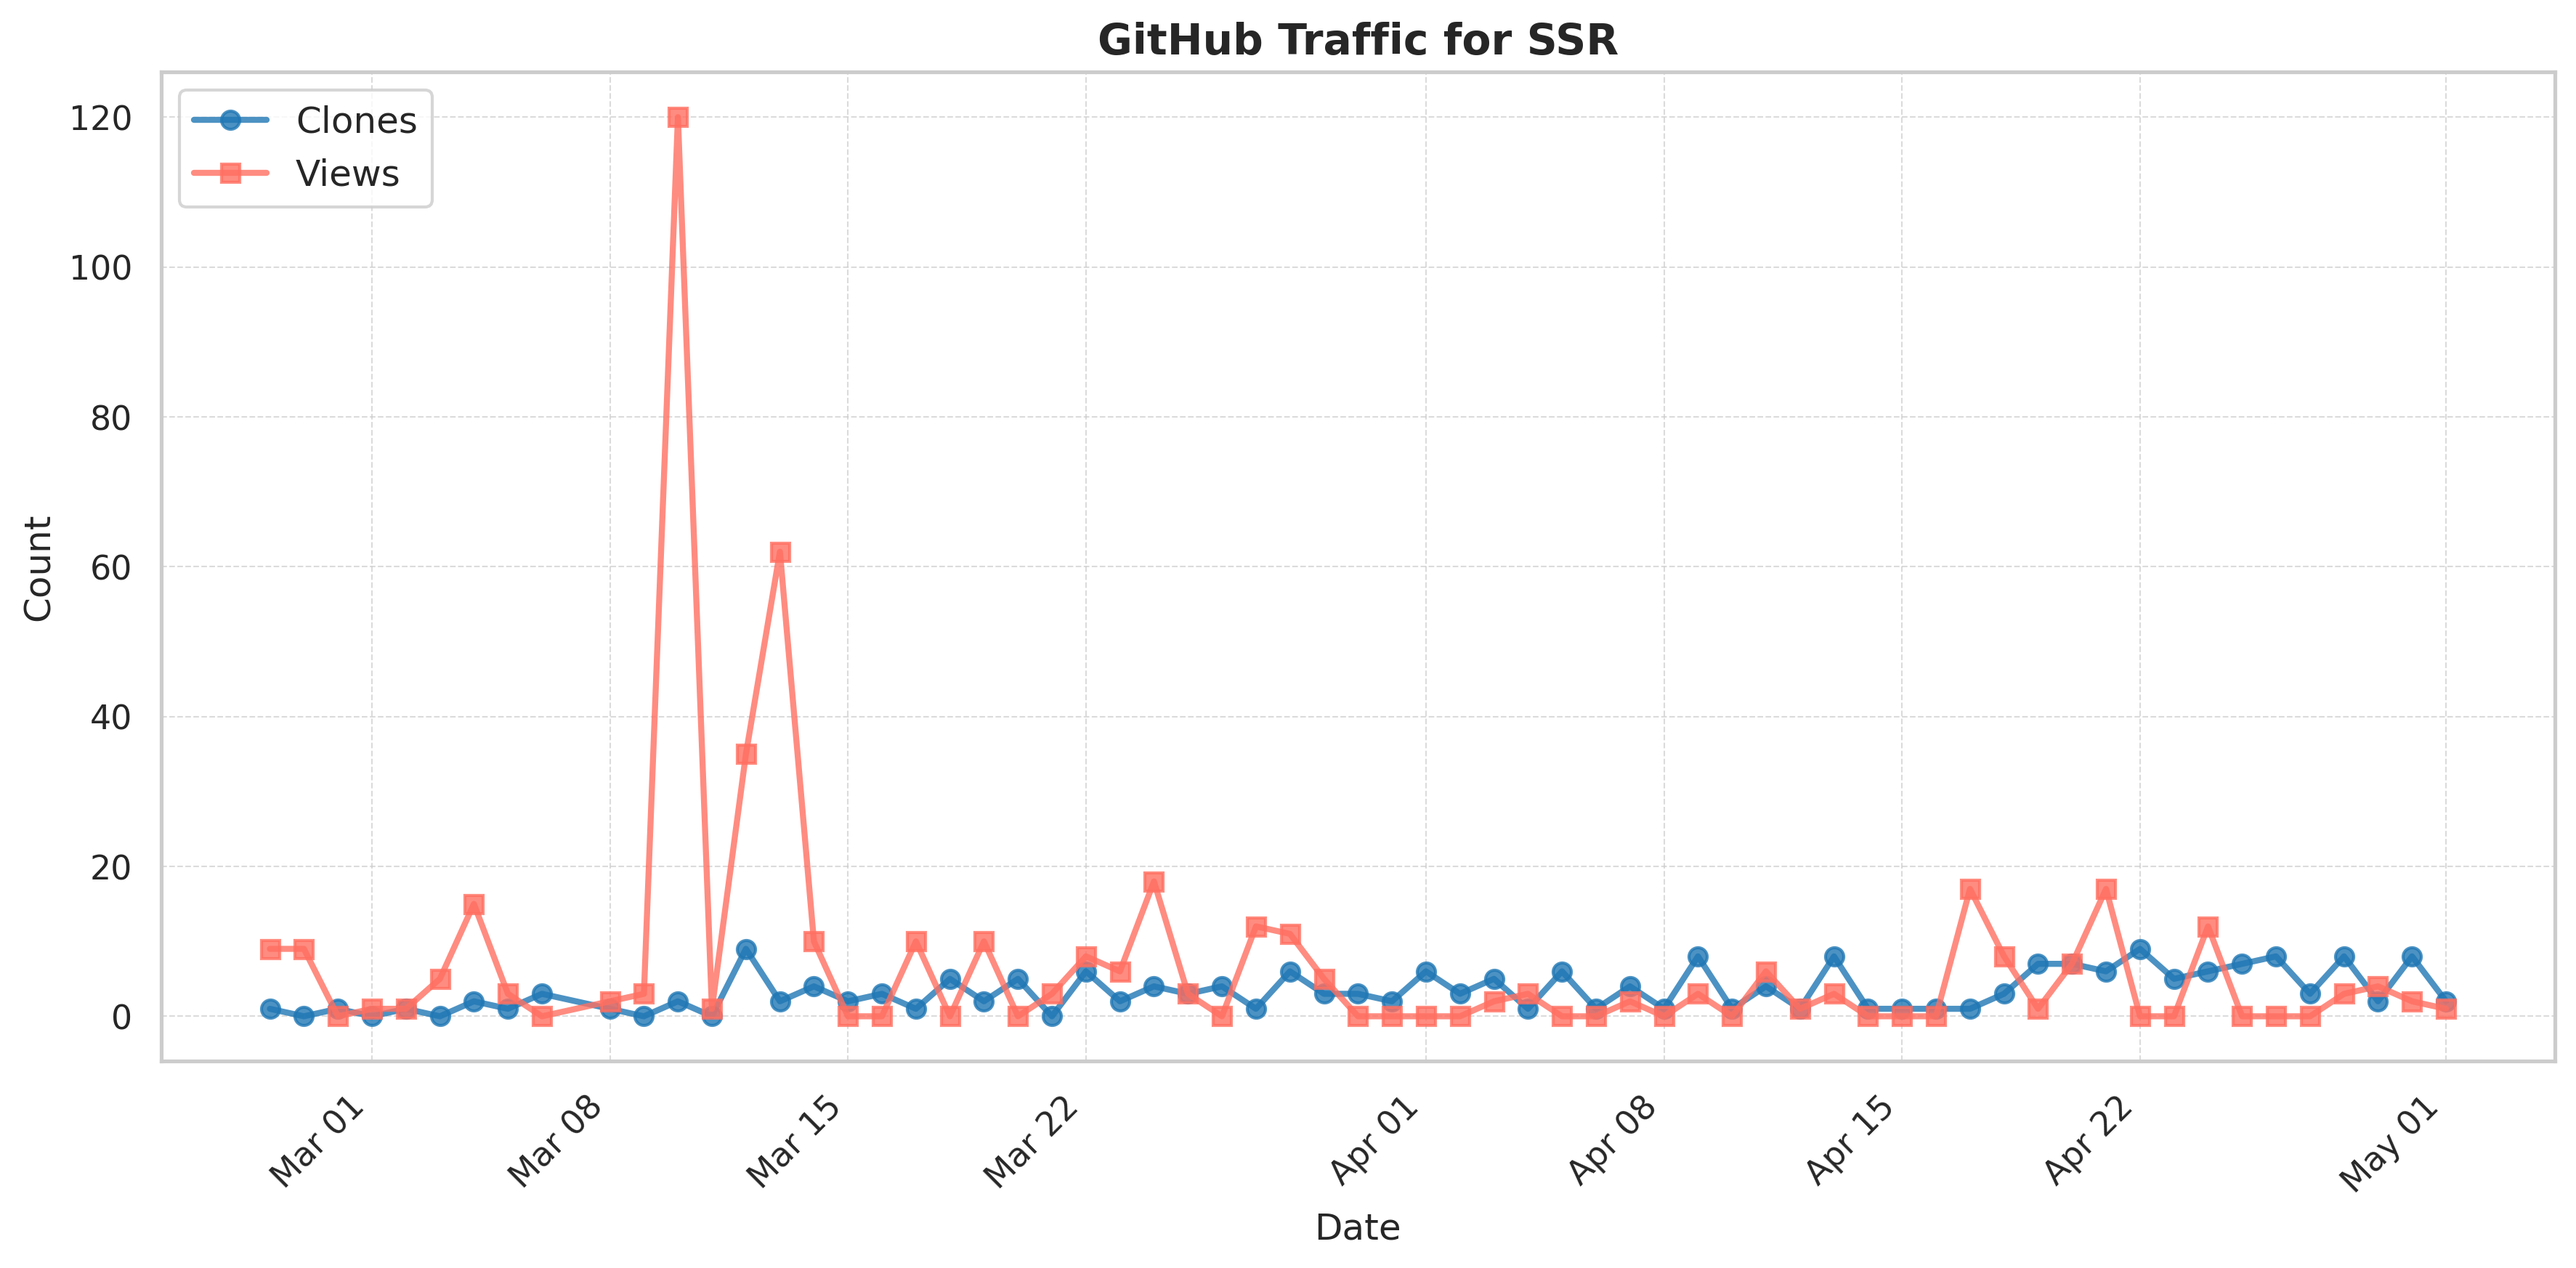
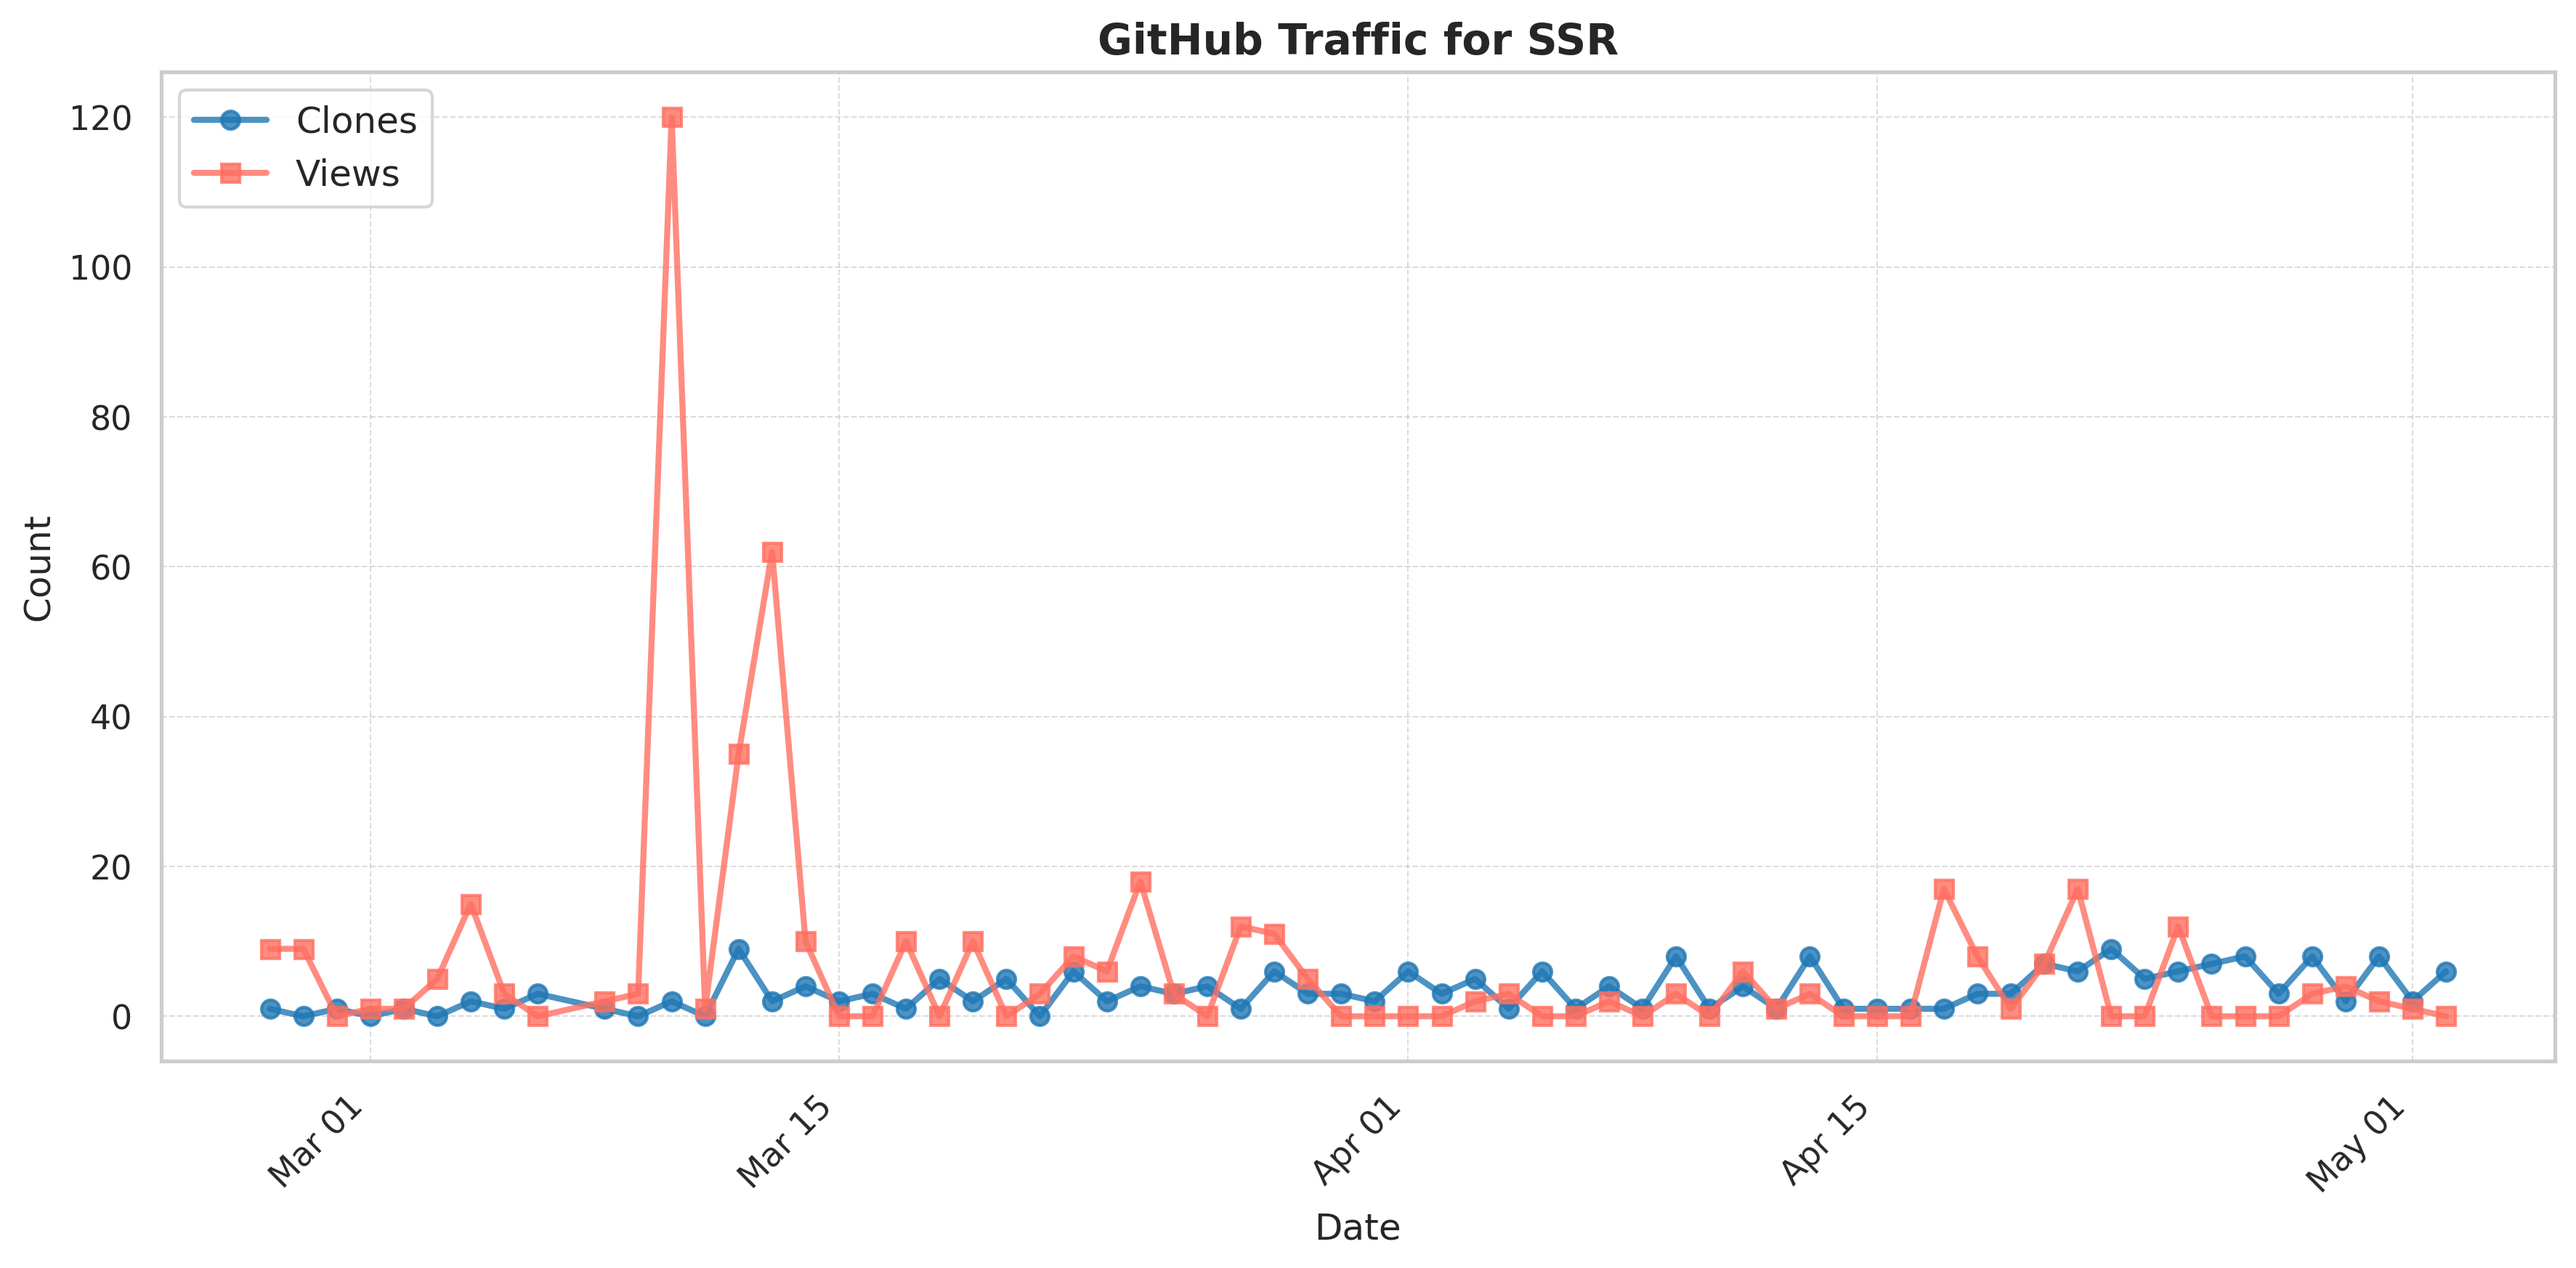
Auto-generated traffic_plot.png and plot_data.csv

diff --git a/README.md b/README.md
@@ -11,7 +11,7 @@ Faculty Collaborators: Professors Heng Huang (Maryland), Alex Jones (Syracuse), 
 ## 🚀 Thank You for Using SSR! ! !
 ### Your support and growing engagement inspire us to continually improve and enhance the project.
 + Total Views since 02/26/2025: <!--VIEWS-->454<!--/VIEWS-->
-+ Total Downloads since 02/26/2025: <!--CLONES-->213<!--/CLONES-->
++ Total Downloads since 02/26/2025: <!--CLONES-->215<!--/CLONES-->
 <img src="./plot/SSR_traffic_plot.png" width="600" />
 
 ## ACM/IEEE Reference Format
